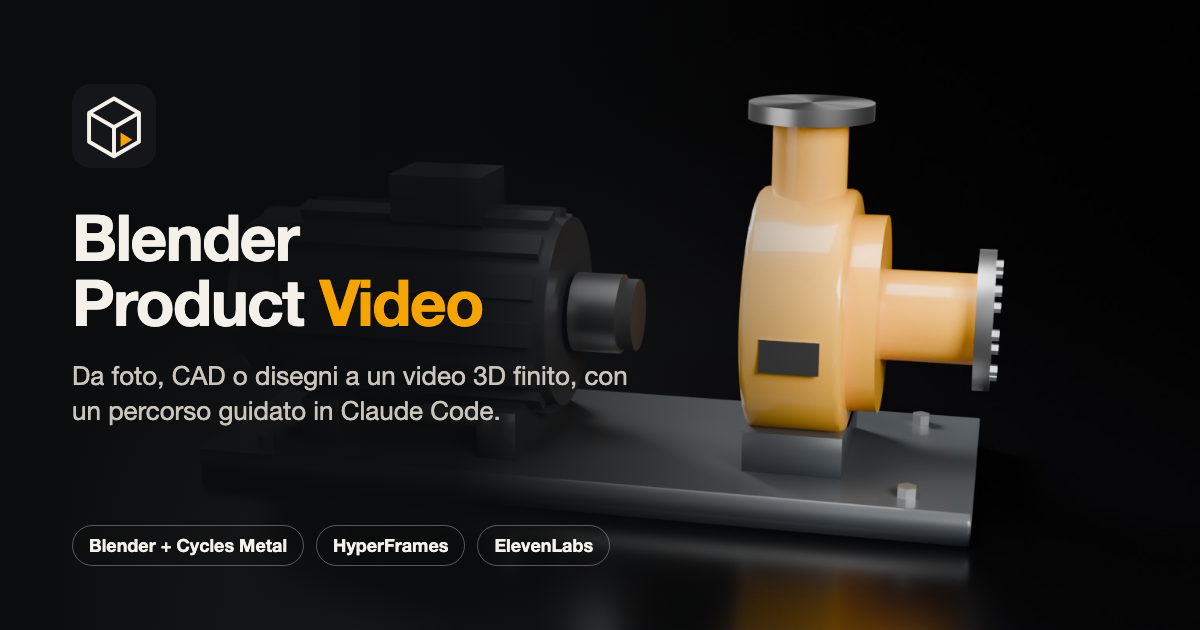
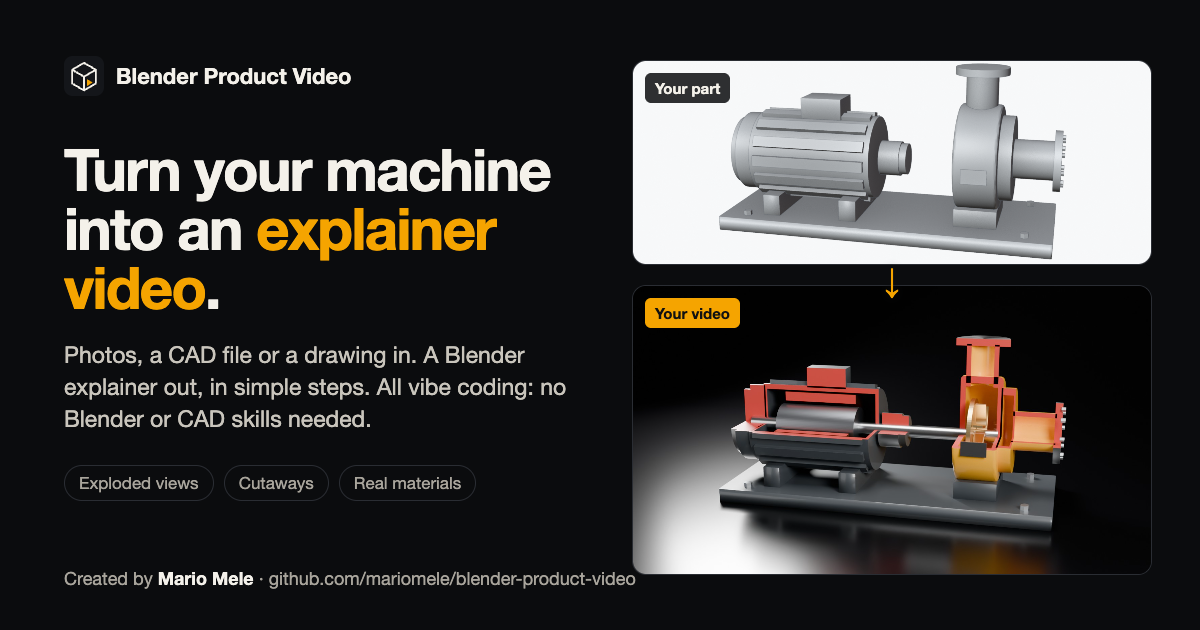
Clearer pitch: machine to explainer video, cutaway example, new OG, credit Mario Mele

diff --git a/docs/index.html b/docs/index.html
@@ -4,15 +4,16 @@
 <meta charset="utf-8">
 <meta name="viewport" content="width=device-width, initial-scale=1">
 <title>Blender Product Video</title>
-<meta name="description" content="A Claude Code skill: from photos, CAD or drawings to a finished 3D product video, with storyboard, previews, HyperFrames graphics, ElevenLabs voice and music, Metal GPU render. Skill per Claude Code: da foto, CAD o disegni a un video 3D di prodotto finito.">
+<meta name="description" content="Turn your machine into an explainer video: from photos, CAD or a drawing to a Blender video with cutaways, exploded views and real materials. All vibe coding with Claude Code, no Blender or CAD skills needed. Created by Mario Mele.">
+<meta name="author" content="Mario Mele">
 <link rel="icon" href="assets/favicon.svg" type="image/svg+xml">
 <link rel="icon" href="assets/favicon-32.png" sizes="32x32" type="image/png">
 <link rel="shortcut icon" href="assets/favicon.ico">
 <link rel="apple-touch-icon" href="assets/apple-touch-icon.png">
 <meta name="theme-color" content="#0B0C0E">
 <meta property="og:type" content="website">
-<meta property="og:title" content="Blender Product Video">
-<meta property="og:description" content="From photos, CAD or drawings to a finished 3D product video, with a guided workflow in Claude Code. · Da foto, CAD o disegni a un video 3D finito, con un percorso guidato in Claude Code.">
+<meta property="og:title" content="Blender Product Video: turn your machine into an explainer video">
+<meta property="og:description" content="Photos, a CAD file or a drawing in. A Blender explainer out, with cutaways, exploded views and real materials. All vibe coding, no Blender or CAD skills needed. · Trasforma la tua macchina in un video explainer.">
 <meta property="og:url" content="https://mariomele.github.io/blender-product-video/">
 <meta property="og:image" content="https://mariomele.github.io/blender-product-video/assets/og.png">
 <meta property="og:image:width" content="1200">
@@ -69,7 +70,8 @@ footer{padding:40px 0;color:var(--muted);font-size:14px;border-top:1px solid var
 <div class="wrap">
 <header><img src="assets/logo.svg" alt=""><b>Blender Product Video</b>
 <nav>
-<a href="#esempi"><span lang="en">Examples</span><span lang="it">Esempi</span></a>
+<a href="#come"><span lang="en">How it works</span><span lang="it">Come funziona</span></a>
+<a href="#impossibile"><span lang="en">Examples</span><span lang="it">Esempi</span></a>
 <a href="#percorso"><span lang="en">Workflow</span><span lang="it">Percorso</span></a>
 <a href="#installazione"><span lang="en">Install</span><span lang="it">Installazione</span></a>
 <a href="https://github.com/mariomele/blender-product-video">GitHub</a>
@@ -79,17 +81,37 @@ footer{padding:40px 0;color:var(--muted);font-size:14px;border-top:1px solid var
 
 <div class="hero">
 <div>
-<h1 lang="en">3D product videos, <em>guided</em>.</h1>
-<h1 lang="it">Video 3D di prodotto, <em>guidati</em>.</h1>
-<p class="lead" lang="en">A Claude Code skill that takes photos, a link, CAD files or technical drawings to a finished video: storyboard, previews, graphics, voice, music and delivery files.</p>
-<p class="lead" lang="it">Una skill per Claude Code che porta da foto, link, file CAD o disegni tecnici a un video finito: storyboard, anteprime, grafiche, voce, musica e file di consegna.</p>
+<h1 lang="en">Turn your machine into an <em>explainer video</em>.</h1>
+<h1 lang="it">Trasforma la tua macchina in un <em>video explainer</em>.</h1>
+<p class="lead" lang="en">Got a machine or a mechanical part? Give Claude Code photos, a CAD file or a drawing, and get an explainer video made with the power of Blender, in a few simple steps. It is all vibe coding: you chat, Claude drives Blender. No Blender or CAD skills needed.</p>
+<p class="lead" lang="it">Hai una macchina o un pezzo meccanico? Dai a Claude Code foto, un file CAD o un disegno, e ottieni un video explainer fatto con la potenza di Blender, in pochi passi semplici. Tutto in vibe coding: tu parli, Claude guida Blender. Senza conoscere Blender o il CAD.</p>
 <a class="btn" href="#installazione"><span lang="en">Install</span><span lang="it">Installa</span></a><a class="btn ghost" href="https://github.com/mariomele/blender-product-video"><span lang="en">View on GitHub</span><span lang="it">Vedi su GitHub</span></a>
+<p class="note" style="margin-top:22px"><span lang="en">Created by <b>Mario Mele</b>.</span><span lang="it">Ideata da <b>Mario Mele</b>.</span></p>
 </div>
-<img src="assets/examples/ambiente_nero.jpg" alt="Render of a centrifugal pump with motor on a black background">
+<img src="assets/examples/sezione.jpg" alt="Cutaway render of a centrifugal pump with motor: red section faces show the rotor, shaft and impeller">
 </div>
 
+<section id="come">
+<h2><span lang="en">From your part to a video, in three steps</span><span lang="it">Dal tuo pezzo al video, in tre passi</span></h2>
+<p lang="en">You bring what you have. Claude asks the right questions, builds the 3D model, sets up the scenes and shows you a storyboard before anything long is rendered.</p>
+<p lang="it">Porti quello che hai. Claude fa le domande giuste, costruisce il modello 3D, imposta le scene e ti mostra uno storyboard prima di qualsiasi render lungo.</p>
+<figure lang="en"><img src="assets/examples/how_it_works_en.jpg" alt="Three steps: CAD view of the part, storyboard frames, explainer frame with labelled parts" loading="lazy"></figure>
+<figure lang="it"><img src="assets/examples/how_it_works_it.jpg" alt="Tre passi: vista CAD del pezzo, frame dello storyboard, frame explainer con le parti etichettate" loading="lazy"></figure>
+</section>
+
+<section id="impossibile">
+<h2><span lang="en">What a real camera can't show</span><span lang="it">Quello che una ripresa vera non può mostrare</span></h2>
+<p lang="en">Open the machine up, take it apart in mid-air, swap its finish in a click. Shots that would be impossible, or very expensive, with real footage.</p>
+<p lang="it">Apri la macchina, smontala a mezz'aria, cambia finitura con un clic. Inquadrature impossibili, o molto costose, con riprese reali.</p>
+<div class="grid3">
+<figure><img src="assets/examples/sezione.jpg" alt="Cutaway view" loading="lazy"><figcaption><b><span lang="en">Cutaways</span><span lang="it">Sezioni</span></b><br><span lang="en">See inside: rotor, shaft, impeller, section faces in colour.</span><span lang="it">Vedi dentro: rotore, albero, girante, facce di sezione colorate.</span></figcaption></figure>
+<figure><img src="assets/examples/esploso.jpg" alt="Exploded view" loading="lazy"><figcaption><b><span lang="en">Exploded views</span><span lang="it">Esplosi</span></b><br><span lang="en">Parts slide apart and back together, in order.</span><span lang="it">I pezzi si separano e si rimontano, in ordine.</span></figcaption></figure>
+<figure><img src="assets/examples/dettaglio_materiali.jpg" alt="Material detail" loading="lazy"><figcaption><b><span lang="en">Realistic materials and textures</span><span lang="it">Materiali e texture realistici</span></b><br><span lang="en">Paint in the real RAL colour, brushed steel, rubber, zinc-plated bolts.</span><span lang="it">Vernice nel colore RAL reale, acciaio spazzolato, gomma, bulloni zincati.</span></figcaption></figure>
+</div>
+</section>
+
 <section id="esempi">
-<h2><span lang="en">Same product, three settings</span><span lang="it">Stesso prodotto, tre ambientazioni</span></h2>
+<h2><span lang="en">Any setting, realistic light</span><span lang="it">Qualsiasi ambiente, luce realistica</span></h2>
 <p lang="en">In the brief you choose where the product sits and the mood, even from a reference photo. Every image is made with the skill's scripts.</p>
 <p lang="it">Nel brief scegli dove mettere il prodotto e con che atmosfera, anche partendo da una foto di riferimento. Tutte le immagini sono generate con gli script della skill.</p>
 <div class="grid3">
@@ -106,15 +128,6 @@ footer{padding:40px 0;color:var(--muted);font-size:14px;border-top:1px solid var
 <figure><img src="assets/examples/storyboard.jpg" alt="Grid storyboard of a scene" loading="lazy"></figure>
 </section>
 
-<section>
-<h2><span lang="en">Motion and materials</span><span lang="it">Movimenti e materiali</span></h2>
-<p lang="en">Exploded views, assembly and moving parts. Physical materials with the product's real colours and procedural finishes, without throwing the model away.</p>
-<p lang="it">Esplosi, montaggi e parti in movimento. Materiali fisici con i colori reali del prodotto e finiture procedurali, senza scartare il modello.</p>
-<div class="grid2">
-<figure><img src="assets/examples/esploso.jpg" alt="Exploded view of motor and pump" loading="lazy"><figcaption><span lang="en">Exploded view</span><span lang="it">Vista esplosa</span></figcaption></figure>
-<figure><img src="assets/examples/dettaglio_materiali.jpg" alt="Detail of stainless flange and painted body" loading="lazy"><figcaption><span lang="en">Material detail</span><span lang="it">Dettaglio materiali</span></figcaption></figure>
-</div>
-</section>
 
 <section id="percorso">
 <h2><span lang="en">A phased workflow, with questions and approvals</span><span lang="it">Un percorso a fasi, con domande e approvazioni</span></h2>
@@ -167,7 +180,7 @@ cp -r blender-product-video/blender-product-video ~/.claude/skills/</code></pre>
 </table></div>
 </section>
 
-<footer><span lang="en">MIT license</span><span lang="it">Licenza MIT</span> · <a href="https://github.com/mariomele/blender-product-video">github.com/mariomele/blender-product-video</a></footer>
+<footer><span lang="en">Created by Mario Mele · MIT license</span><span lang="it">Ideata da Mario Mele · Licenza MIT</span> · <a href="https://github.com/mariomele/blender-product-video">github.com/mariomele/blender-product-video</a></footer>
 </div>
 <script>
 (function(){

diff --git a/docs/assets/examples/cut.py b/docs/assets/examples/cut.py
@@ -1,0 +1,59 @@
+# Cutaway still of the demo pump: hollow bodies, add internals, quarter-cut with red section caps. -- frame out.jpg
+import bpy, sys, math
+a = sys.argv[sys.argv.index('--') + 1:]
+s = bpy.context.scene; s.frame_set(int(a[0]))
+O = bpy.data.objects
+
+def mat(name, rgb, metal=0.0, rough=0.4):
+    m = bpy.data.materials.new(name); m.use_nodes = True
+    b = m.node_tree.nodes['Principled BSDF']
+    b.inputs['Base Color'].default_value = (*rgb, 1); b.inputs['Metallic'].default_value = metal; b.inputs['Roughness'].default_value = rough
+    return m
+
+def cyl(name, r, x0, x1, y=0, z=0.2, m=None, axis='X', hide=False):
+    bpy.ops.mesh.primitive_cylinder_add(vertices=96, radius=r, depth=x1 - x0)
+    o = bpy.context.object; o.name = name
+    if axis == 'X': o.rotation_euler = (0, math.pi / 2, 0); o.location = ((x0 + x1) / 2, y, z)
+    else: o.location = (y, 0, (x0 + x1) / 2)  # vertical: y arg is x position
+    if m: o.data.materials.append(m)
+    o.hide_render = hide
+    return o
+
+def boolean(target, cutter, transfer=True):
+    md = target.modifiers.new('cut_' + cutter.name, 'BOOLEAN'); md.operation = 'DIFFERENCE'; md.solver = 'EXACT'
+    md.object = cutter
+    if transfer: md.material_mode = 'TRANSFER'
+
+CAP = mat('Sezione', (0.45, 0.02, 0.015), 0, 0.5)
+STEEL = mat('Acciaio albero', (0.75, 0.75, 0.76), 1, 0.25)
+CU = mat('Rame avvolgimenti', (0.80, 0.36, 0.17), 1, 0.3)
+ROT = mat('Lamierini rotore', (0.25, 0.26, 0.28), 1, 0.35)
+BRASS = mat('Bronzo girante', (0.78, 0.55, 0.25), 1, 0.3)
+
+# hollow the shells (inner wall keeps the body's own paint)
+for tgt, r, x0, x1, z in [('Motore', 0.105, -0.39, -0.05, 0.2), ('Pompa', 0.13, 0.215, 0.305, 0.22),
+                          ('Pompa.coperchio', 0.1, 0.32, 0.35, 0.22), ('Pompa.aspirazione', 0.042, 0.33, 0.5, 0.22)]:
+    t = O[tgt]; boolean(t, cyl('hollow_' + tgt, r, x0, x1, z=z, m=t.data.materials[0], hide=True))
+t = O['Pompa.mandata']; boolean(t, cyl('hollow_mand', 0.032, 0.25, 0.49, y=0.26, m=t.data.materials[0], axis='Z', hide=True))
+
+# internals
+cyl('Albero', 0.018, -0.44, 0.31, m=STEEL)
+cyl('Rotore', 0.062, -0.34, -0.10, m=ROT)
+st = cyl('Statore', 0.099, -0.33, -0.11, m=CU); boolean(st, cyl('stat_in', 0.072, -0.34, -0.10, m=CU, hide=True))
+cyl('Girante.disco', 0.105, 0.232, 0.244, m=BRASS)
+for i in range(7):
+    bpy.ops.mesh.primitive_cube_add(size=1); b = bpy.context.object; b.name = f'Girante.pala{i}'
+    b.scale = (0.03, 0.006, 0.075); ang = i * 2 * math.pi / 7
+    b.location = (0.26, 0.06 * math.sin(ang), 0.2 + 0.06 * math.cos(ang))
+    b.rotation_euler = (-ang + math.radians(25), 0, 0); b.data.materials.append(BRASS)
+
+# quarter cut toward the camera: y < 0 and above the shaft axis
+bpy.ops.mesh.primitive_cube_add(size=1); c = bpy.context.object; c.name = 'Cutter'
+c.scale = (1.2, 0.5, 0.6); c.location = (0, -0.25, 0.2 + 0.3); c.data.materials.append(CAP); c.hide_render = True
+skip = ('Base', 'Bullone', 'Plane', 'Motore.piede', 'Pompa.supporto', 'Pompa.vite', 'Pompa.targa', 'Albero', 'Rotore', 'Girante')
+for o in list(s.objects):
+    if o.type == 'MESH' and not o.hide_render and not o.name.startswith(skip): boolean(o, c)
+
+s.render.resolution_percentage = 80; s.cycles.samples = 128; s.cycles.use_denoising = True; s.cycles.device = 'GPU'
+s.render.image_settings.file_format = 'JPEG'; s.render.image_settings.quality = 90; s.render.filepath = a[1]
+bpy.ops.render.render(write_still=True)

diff --git a/docs/assets/examples/cad.py b/docs/assets/examples/cad.py
@@ -1,0 +1,15 @@
+# CAD-viewport look of the demo pump: -- frame out.png
+import bpy, sys
+a = sys.argv[sys.argv.index('--') + 1:]
+s = bpy.context.scene
+s.render.engine = 'BLENDER_WORKBENCH'; s.render.resolution_percentage = 80
+sh = s.display.shading
+sh.light = 'STUDIO'; sh.color_type = 'SINGLE'; sh.single_color = (0.78, 0.80, 0.83)
+sh.show_cavity = True; sh.cavity_type = 'BOTH'; sh.show_object_outline = True; sh.object_outline_color = (0.1, 0.12, 0.15)
+sh.background_type = 'VIEWPORT'; sh.background_color = (0.93, 0.94, 0.95)
+s.render.film_transparent = False
+for o in s.objects:  # hide the backdrop: keep only the product
+    if o.type == 'MESH' and o.name.startswith('Plane'): o.hide_render = True
+s.view_settings.view_transform = 'Standard'
+s.frame_set(int(a[0])); s.render.image_settings.file_format = 'PNG'; s.render.filepath = a[1]
+bpy.ops.render.render(write_still=True)

diff --git a/README.md b/README.md
@@ -4,15 +4,20 @@
 
 <h1 align="center">Blender Product Video</h1>
 
-<p align="center">
-  A <a href="https://claude.com/claude-code">Claude Code</a> skill that takes photos, a link, CAD files or technical drawings to a finished 3D product video,<br>
-  with storyboard, previews, motion graphics, voice-over, music, sound effects and delivery files.
+<p align="center"><b>Turn your machine into an explainer video.</b><br>
+  Got a machine or a mechanical part? Give <a href="https://claude.com/claude-code">Claude Code</a> photos, a CAD file or a drawing,<br>
+  and get an explainer video made with the power of Blender, in a few simple steps.<br>
+  All vibe coding: no Blender or CAD skills needed.
 </p>
 
 <p align="center"><i>
-  Una skill per Claude Code che porta da foto, link, file CAD o disegni tecnici a un video 3D di prodotto finito,<br>
-  con storyboard, anteprime, grafiche, voce fuori campo, musica, effetti sonori e file di consegna.
+  <b>Trasforma la tua macchina in un video explainer.</b><br>
+  Hai una macchina o un pezzo meccanico? Dai a Claude Code foto, un file CAD o un disegno,<br>
+  e ottieni un video explainer fatto con la potenza di Blender, in pochi passi semplici.<br>
+  Tutto in vibe coding: senza conoscere Blender o il CAD.
 </i></p>
+
+<p align="center">Created by / Ideata da <b>Mario Mele</b></p>
 
 <p align="center">
   <a href="https://mariomele.github.io/blender-product-video/"><b>Project page</b></a> ·
@@ -27,22 +32,27 @@
 
 ---
 
-## Examples · Esempi
+## How it works · Come funziona
 
-Every image below was made with the skill's scripts, from a procedurally modelled demo product ([`build_pump.py`](docs/assets/examples/build_pump.py)).
-*Tutte le immagini sono generate con gli script della skill, partendo da un prodotto dimostrativo modellato proceduralmente.*
+![From your part to an explainer video in three steps](docs/assets/examples/how_it_works_en.jpg)
+
+## What a real camera can't show · Quello che una ripresa vera non può mostrare
+
+Open the machine up, take it apart in mid-air, swap its finish in a click: shots that are impossible, or very expensive, with real footage.
+*Apri la macchina, smontala a mezz'aria, cambia finitura con un clic: inquadrature impossibili, o molto costose, con riprese reali.*
+
+| Cutaway · Sezione | Exploded view · Esploso | Materials and textures · Materiali e texture |
+|---|---|---|
+| ![Cutaway with red section faces](docs/assets/examples/sezione.jpg) | ![Exploded view](docs/assets/examples/esploso.jpg) | ![Stainless flange, RAL paint, zinc-plated bolts](docs/assets/examples/dettaglio_materiali.jpg) |
+
+**Any setting, realistic light · Qualsiasi ambiente, luce realistica**
 
 | Black studio · Studio nero | Limbo | Warehouse · Capannone |
 |---|---|---|
 | ![Black studio](docs/assets/examples/ambiente_nero.jpg) | ![Light limbo](docs/assets/examples/ambiente_limbo.jpg) | ![Warehouse](docs/assets/examples/ambiente_capannone.jpg) |
 
-**Storyboard, one frame per second · Storyboard, un frame al secondo**
-
-![Storyboard of a scene: orbit and exploded view](docs/assets/examples/storyboard.jpg)
-
-| Exploded view · Vista esplosa | Material detail · Dettaglio materiali |
-|---|---|
-| ![Exploded view](docs/assets/examples/esploso.jpg) | ![Detail: stainless flange and painted body](docs/assets/examples/dettaglio_materiali.jpg) |
+Every image was made with the skill's scripts, from a procedurally modelled demo product ([`build_pump.py`](docs/assets/examples/build_pump.py), [`cut.py`](docs/assets/examples/cut.py)).
+*Tutte le immagini sono generate con gli script della skill, partendo da un prodotto dimostrativo modellato proceduralmente.*
 
 ---
 
@@ -53,11 +63,14 @@ Every image below was made with the skill's scripts, from a procedurally modelle
 
 ### What it is
 
-A skill that guides Claude Code, and you, through the whole making of a 3D product video: machines, plants, components, industrial processes. Built for sales presentations, social content, trade fairs and websites.
+You have a machine, a plant or a mechanical part and want to explain how it works. This skill lets you do it by just chatting: Claude Code drives Blender for you, from the 3D model to the final video. You never touch Blender or a CAD program.
+
+It guides Claude Code, and you, through the whole making of a 3D product video: machines, plants, components, industrial processes. Built for sales presentations, social content, trade fairs and websites.
 
 - **Starts from any source:** CAD (GLB, STEP via export, STL, OBJ…), photos, the product's web page, technical drawings and dimensioned sketches.
 - **Asks questions at every phase** and stops for your approval before moving on, so fixes come when they are cheap.
 - **Remembers where you are:** every decision goes into `progetto.md`, and a request like "redo the intro" jumps straight to the right phase.
+- **Shows what a camera can't:** cutaways, exploded views, realistic materials and textures, any setting.
 - **Renders on Metal GPU** with a hang watchdog, resumable renders and the option to redo only the frames that changed.
 
 ### The phases
@@ -137,7 +150,7 @@ docs/                       project page (GitHub Pages), logo, sample images
 
 ### License
 
-[MIT](LICENSE)
+Created by Mario Mele. [MIT](LICENSE)
 
 ---
 
@@ -146,11 +159,14 @@ docs/                       project page (GitHub Pages), logo, sample images
 
 ### Cos'è
 
-Una skill che guida Claude Code, e te, in tutto il percorso di un video 3D di prodotto: macchine, impianti, componenti, processi industriali. Pensata per presentazioni commerciali, contenuti social, fiere e siti.
+Hai una macchina, un impianto o un pezzo meccanico e vuoi spiegare come funziona. Con questa skill lo fai parlando: Claude Code guida Blender al posto tuo, dal modello 3D al video finale. Non devi mai aprire Blender o un programma CAD.
+
+Guida Claude Code, e te, in tutto il percorso di un video 3D di prodotto: macchine, impianti, componenti, processi industriali. Pensata per presentazioni commerciali, contenuti social, fiere e siti.
 
 - **Parte da qualsiasi sorgente:** CAD (GLB, STEP via export, STL, OBJ…), foto, la pagina web del prodotto, disegni tecnici e schizzi quotati.
 - **Fa domande a ogni fase** e si ferma per un'approvazione prima di andare avanti, così le correzioni arrivano quando costano poco.
 - **Si ricorda dove sei:** tutte le decisioni finiscono in `progetto.md`, e una richiesta come "rifai l'intro" porta direttamente alla fase giusta.
+- **Mostra quello che una telecamera non può:** sezioni, esplosi, materiali e texture realistici, qualsiasi ambiente.
 - **Render su GPU Metal** con controllo anti-blocco, render ripartibili e la possibilità di rifare solo i frame cambiati.
 
 ### Il percorso
@@ -232,4 +248,4 @@ docs/                       pagina del progetto (GitHub Pages), logo, immagini d
 
 ### Licenza
 
-[MIT](LICENSE)
+Ideata da Mario Mele. [MIT](LICENSE)

diff --git a/blender-product-video/SKILL.md b/blender-product-video/SKILL.md
@@ -124,6 +124,9 @@ Per **ogni** scena, prima di costruirla, chiedi:
 Costruisci con **Blender MCP** (`get_objects_summary`, `execute_blender_code`) o `blender -b file.blend --python script.py` (script in `render_scripts/`). Skill: **animation**, **geometry-nodes**, **procedural-modeling**.
 - Animazione **procedurale** (driver + geometry nodes, niente simulazioni): così si può campionare a subframe e allungare i tempi senza toccare i keyframe.
 - Prima di patchare un .blend salvane una copia nello scratchpad. Ogni patch è uno script Python rieseguibile.
+- Proponi le inquadrature che una ripresa vera non può dare, sono il punto di forza del 3D:
+  - **sezione**: modificatore Boolean `DIFFERENCE` (solver `EXACT`, `material_mode='TRANSFER'`) con un cutter che toglie un quarto verso la camera; il materiale del cutter colora le facce tagliate, di solito un rosso scuro. Prima svuota i gusci, con un cutter interno che ha lo stesso materiale del pezzo, e aggiungi le parti interne che servono al racconto (albero, rotore, girante). Animare il cutter fa aprire la sezione in scena;
+  - **esploso** e rimontaggio, parti trasparenti o in radiografia, cambio di finitura o di colore.
 
 **Storyboard (1 frame al secondo)**, prima di qualunque anteprima animata:
 `$K/preview.sh <scena.blend> <first> <last> <fps_scena> preview/<n>_sb`
